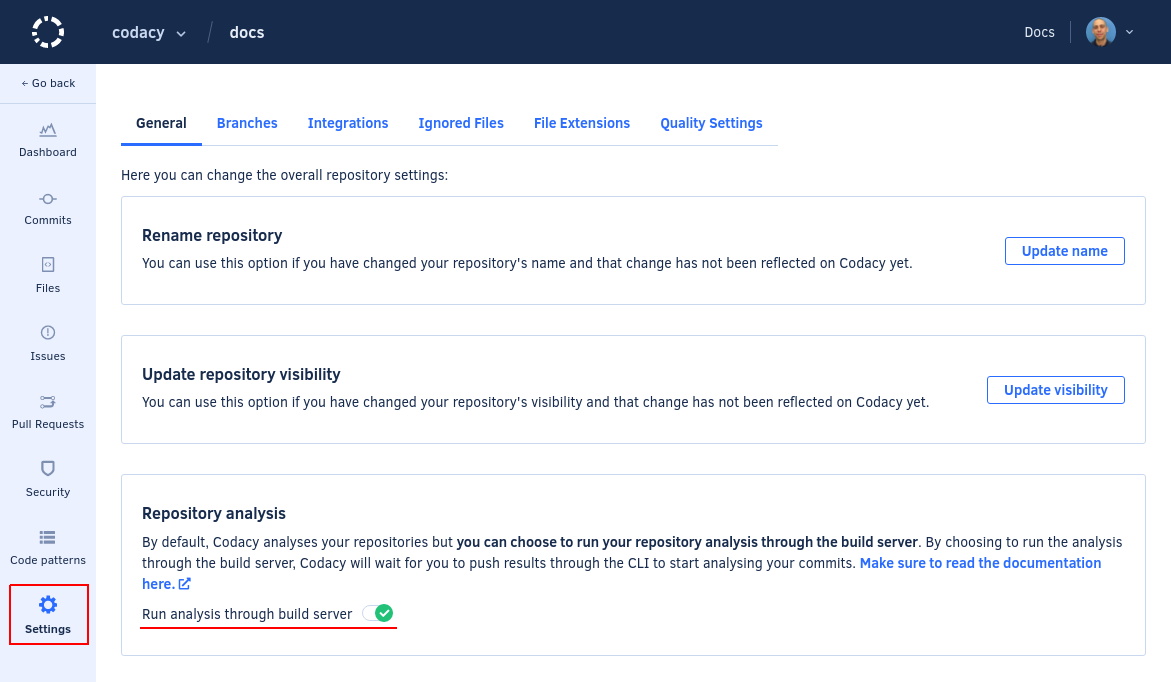
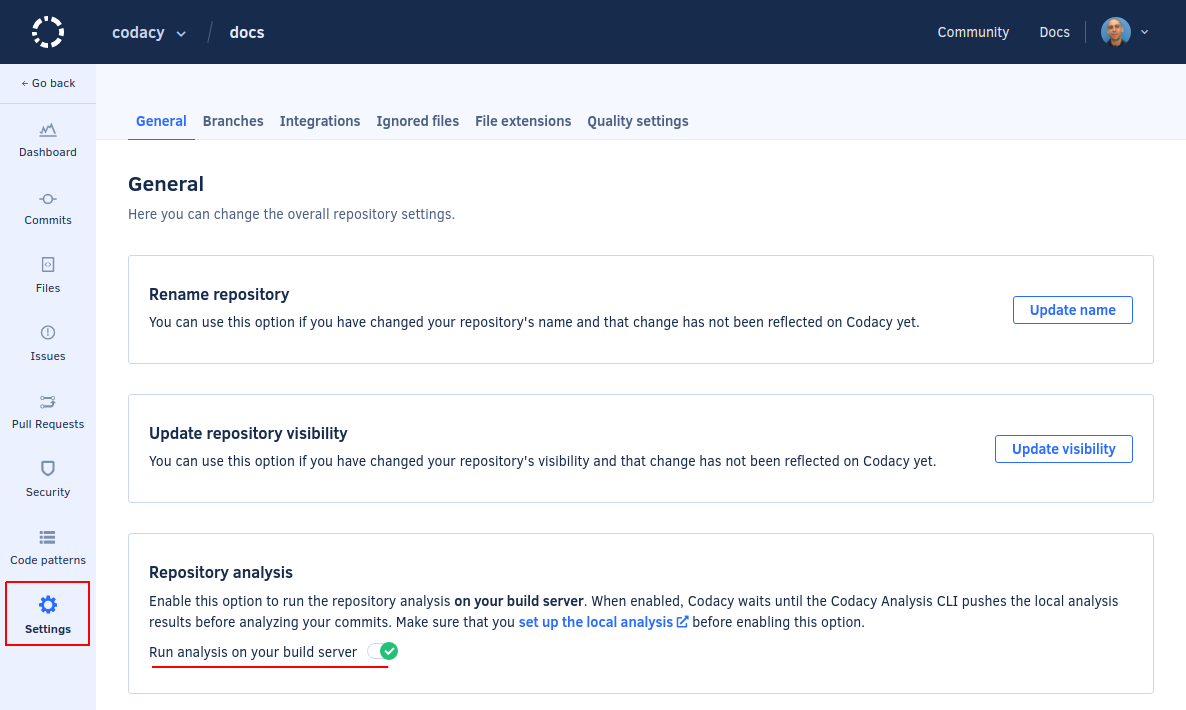
clean: Update screenshot with new UI copy

diff --git a/docs/assets/includes/client-side-tool-instructions.md b/docs/assets/includes/client-side-tool-instructions.md
@@ -2,7 +2,7 @@
 
     This setting enables Codacy to wait for the results of the local analysis before resuming the analysis of your commits.
 
-    ![Run analysis through build server](./images/run-analysis-through-build-server.png)
+    ![Run analysis on your build server](./images/run-analysis-through-build-server.png)
 
 1.  Set up an API token to authenticate on Codacy:
 
